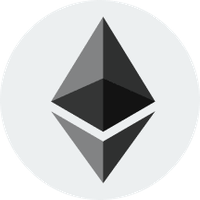
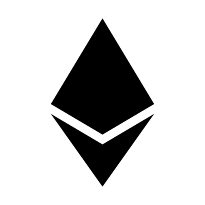
fix

Changed region(s): [[0.24, 0.09, 0.78, 0.93]]

diff --git a/components/prediction-market/PredictionMarket.tsx b/components/prediction-market/PredictionMarket.tsx
@@ -288,19 +288,19 @@ export default function PredictionMarket({
       {showLoading ? (
         <div className="relative flex flex-col h-full p-4 pt-20 gap-3 overflow-y-auto scrollbar-hide">
           {/* Price Card skeleton */}
-          <div className="bg-white/[0.03] border border-white/[0.08] rounded-2xl p-4 h-28 animate-pulse" />
+          <div className="bg-white/[0.03] border border-white/[0.08] rounded-2xl p-4 h-[140px] animate-pulse" />
           {/* Timer Card skeleton */}
-          <div className="bg-white/[0.03] border border-white/[0.08] rounded-xl p-3 h-12 animate-pulse" />
+          <div className="bg-white/[0.03] border border-white/[0.08] rounded-xl p-3 h-[52px] animate-pulse" />
           {/* Pool Card skeleton */}
-          <div className="bg-white/[0.03] border border-white/[0.08] rounded-xl p-4 h-24 animate-pulse" />
+          <div className="bg-white/[0.03] border border-white/[0.08] rounded-xl p-4 h-[100px] animate-pulse" />
           {/* Position Card skeleton - show if user previously had a position */}
           {hadPosition && (
-            <div className="bg-white/[0.03] border border-white/[0.08] rounded-xl p-3 h-16 animate-pulse" />
+            <div className="bg-white/[0.03] border border-white/[0.08] rounded-xl p-3 h-[76px] animate-pulse" />
           )}
           {/* Pump/Dump buttons skeleton */}
           <div className="grid grid-cols-2 gap-2">
-            <div className="bg-white/[0.03] border border-white/[0.08] rounded-xl p-4 h-28 animate-pulse" />
-            <div className="bg-white/[0.03] border border-white/[0.08] rounded-xl p-4 h-28 animate-pulse" />
+            <div className="bg-white/[0.03] border border-white/[0.08] rounded-xl p-4 h-[116px] animate-pulse" />
+            <div className="bg-white/[0.03] border border-white/[0.08] rounded-xl p-4 h-[116px] animate-pulse" />
           </div>
         </div>
       ) : (

diff --git a/components/prediction-market/constants.ts b/components/prediction-market/constants.ts
@@ -15,7 +15,7 @@ export const BYEMONEY_PRICE_CALIBRATION = 1;
 
 // Available Markets
 export const AVAILABLE_COINS = [
-  { symbol: 'ETH', name: 'Ethereum', icon: 'https://assets.coingecko.com/coins/images/279/small/ethereum.png', active: true },
+  { symbol: 'ETH', name: 'Ethereum', icon: '/eth.png', active: true },
   { symbol: 'BYEMONEY', name: 'ByeMoney', icon: '/logo.png', active: true },
   { symbol: 'CLANKER', name: 'Clanker', icon: '/clanker.png', active: false },
 ] as const;
